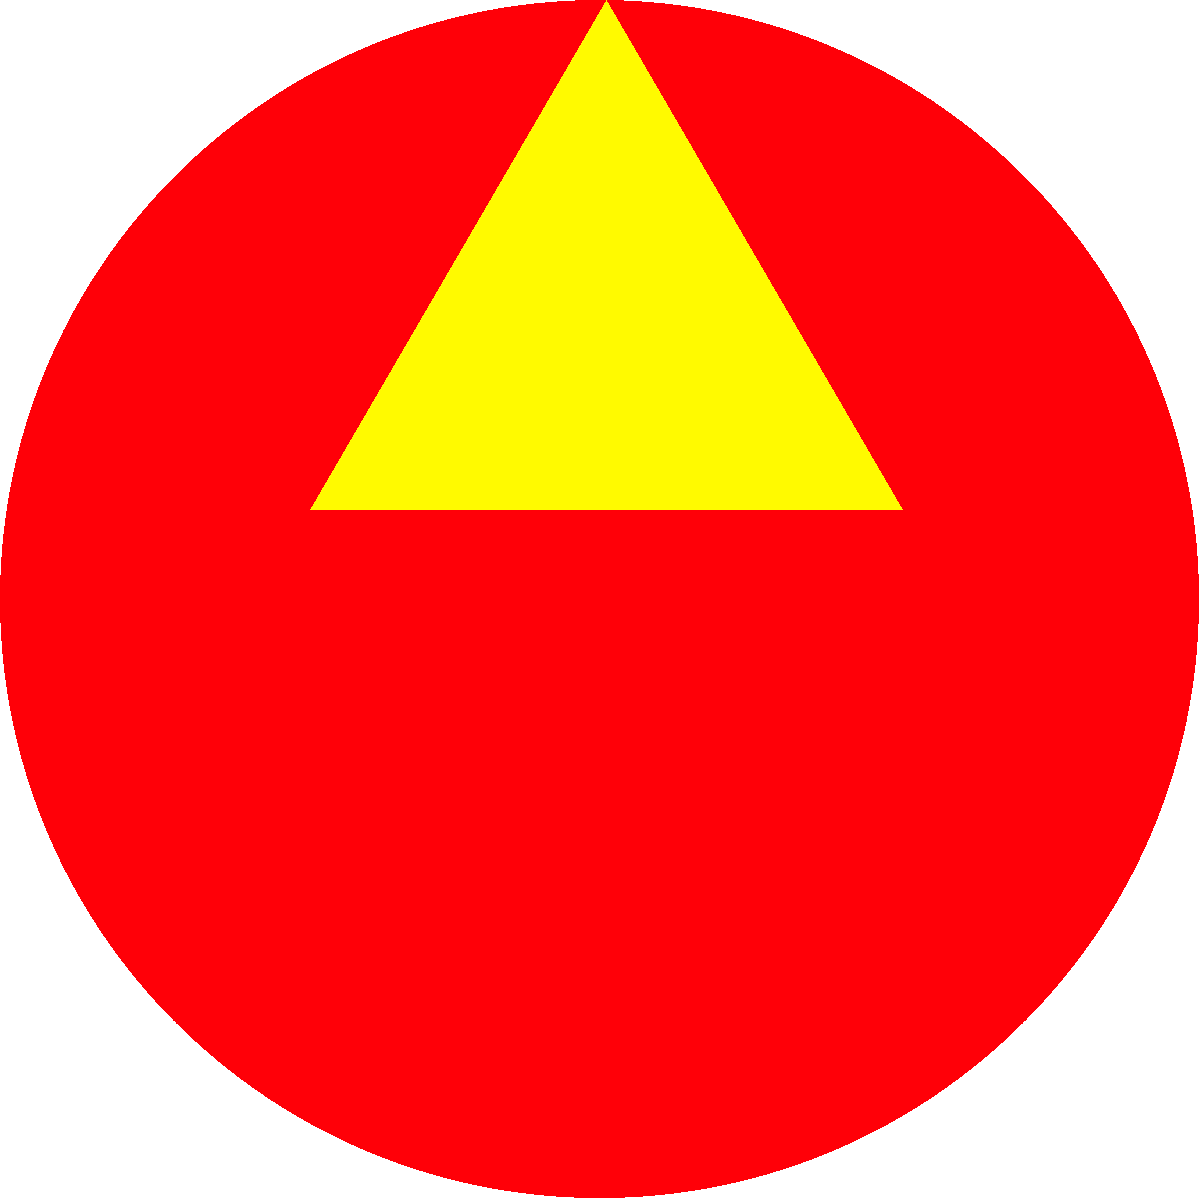
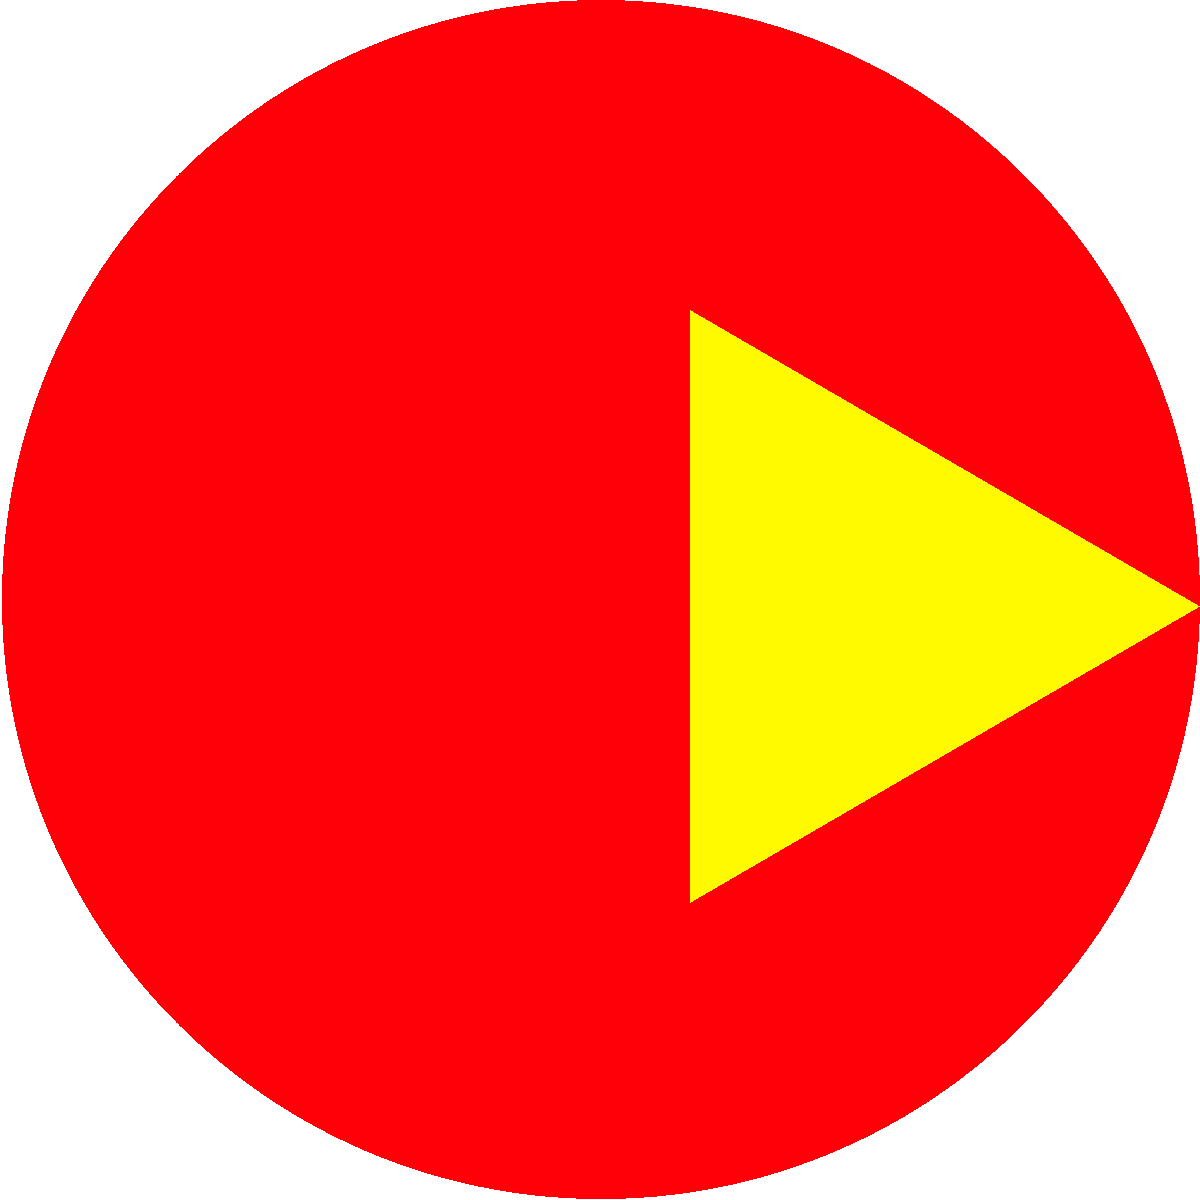
A heavy conversion was carried out to enable the boids travel direction be dictated only by it's current angle, and for it's interactions to therefore influence the angle, instead of travel directions. This includes replacing the circular sprite with that of a sprite with an forward-facing arrow

Changed region(s): [[0.2467, 0.0, 1.0, 0.7708], [0.6783, 0.3083, 0.7092, 0.3392]]

diff --git a/boids/boids.c b/boids/boids.c
@@ -9,7 +9,7 @@
 #define WINDOW_WIDTH (1200)
 #define WINDOW_HEIGHT (600)
 //pixels per second:
-#define SPEED (300)
+#define SPEED (100)
 #define SCROLL_SPEED (300)
 #define DEBUG (0)
 #define FORCE_CONSTANT (300)
@@ -66,7 +66,7 @@ int InitialiseRenderer(SDL_Renderer** WhereRend, SDL_Window* win) { // Initiates
 	return 0;
 }
 
-struct Boid { int ID; float x_pos; float y_pos; float x_vel; float y_vel; };
+struct Boid { int ID; float x_pos; float y_pos; double angle; };
 
 int main(int argc, char* argv[]) {
 
@@ -102,25 +102,20 @@ int main(int argc, char* argv[]) {
 		return 1;
 	}
 
-	
-
-	
 	//Create an array of textures representing each boid
 	SDL_Rect* pdest = (SDL_Rect*)malloc(BOIDS_COUNT * sizeof(SDL_Rect));
 	struct Boid* flock = (struct Boid*)malloc(BOIDS_COUNT * sizeof(struct Boid)); //Creating space for a flock of boids
 	//ptr = (int*)malloc(100 * sizeof(int)); //Prototype of the malloc function
-	float* x_pos = (float*)malloc(BOIDS_COUNT * sizeof(float));
-	float* y_pos = (float*)malloc(BOIDS_COUNT * sizeof(float));
-	float* x_vel = (float*)malloc(BOIDS_COUNT * sizeof(float));
-	float* y_vel = (float*)malloc(BOIDS_COUNT * sizeof(float));
 	printf("position and velocity structs established!\n");
 
-	for (int i = 0; i < BOIDS_COUNT; i++) {
+	/**** BOIDS CREATION ITERATION ****/
+	for (int i = 0; i < BOIDS_COUNT; i++) { 
+
 		if (DEBUG) { printf("boid #%d Established ... ", i);  // Debug line
 					 printf("at %d |", pdest[i].w); } // Debug line
 		SDL_QueryTexture(tex, NULL, NULL, &pdest[i].w, &pdest[i].h);
-		pdest[i].w = 15;
-		pdest[i].h = 15; //Absolute scale, in pixels
+		pdest[i].w = 12;
+		pdest[i].h = 12; //Absolute scale, in pixels
 		if (DEBUG) { printf("texture..."); } // Debug line
 
 
@@ -132,15 +127,14 @@ int main(int argc, char* argv[]) {
 		dest2.h = 5; //Absolute scale, in pixels
 	*/
 		//Sprite position on the screen
-		flock[i].x_pos = (WINDOW_WIDTH - pdest[i].w) / ((rand() % 10)+1);
+		flock[i].x_pos = (WINDOW_WIDTH - pdest[i].w) / ((rand() % 10)+1); //TODO make this able to select any pixel on screen
 		flock[i].y_pos = (WINDOW_HEIGHT - pdest[i].h) / ((rand() % 10)+1); //(rand()%10)
-		//Give sprite some initial velocity
-		flock[i].x_vel = 0.1*SPEED*(rand() % 10);
-		flock[i].y_vel = 0.1*SPEED*(rand() % 10);
-		if (DEBUG) { printf("Position and velocity: "); }// Debug line
-		if (DEBUG) { printf("%f %f\n", flock[i].x_pos, flock[i].x_vel); }// Debug line
+		if (DEBUG) { printf("X&Y done, angle: "); }// Debug line
+		//Give sprite some initial angle
+		flock[i].angle = (rand() % 3600)/10;   //Degrees
+		if (DEBUG) { printf("%f\n", flock[i].angle); }// Debug line
 	}
-	if (DEBUG) { printf("Boids created successfully!"); }// Debug line
+	if (DEBUG) { printf("All Boids created successfully!"); }// Debug line
 	//Keep track of the inputs that are given
 	int up = 0;
 	int down = 0;
@@ -148,9 +142,6 @@ int main(int argc, char* argv[]) {
 	int right = 0;
 
 	int close_requested = 0;
-	
-
-
 	//animation loop
 	while (!close_requested) {
 		if (DEBUG) { printf("\nMain loop:   "); }
@@ -238,28 +229,43 @@ int main(int argc, char* argv[]) {
 		for (int i = 0; i < BOIDS_COUNT; i++) {
 			if(DEBUG){printf("\nBoid #%d ", i); }
 
+			flock[i].angle = fmod(flock[i].angle, 360); //This fmod reassignment is used to stop angles winding up arbitrarily large
 			//Bounds-collision detection and reflection
 			if (flock[i].x_pos <= 0) {
-				flock[i].x_pos = 0;
-				flock[i].x_vel = -flock[i].x_vel;
+				flock[i].x_pos = 1;
+				if (flock[i].angle >= 180) {
+					flock[i].angle = flock[i].angle + 90;
+				}
+				else { flock[i].angle = 180 - flock[i].angle; }
 			}
-			if (flock[i].y_pos <= 0) {
-				flock[i].y_pos = 0;
-				flock[i].y_vel = -flock[i].y_vel;
+			if (flock[i].x_pos >= WINDOW_WIDTH) {
+				flock[i].x_pos = WINDOW_WIDTH-1;
+				if (flock[i].angle <= 180) { //Assuming  180<theta<360 or 0<theta<180
+					flock[i].angle = 180 - flock[i].angle;
+				}
+				else { flock[i].angle = 270 - flock[i].angle; }
 			}
-			if (flock[i].x_pos >= WINDOW_WIDTH - pdest[i].w) {
-				flock[i].x_pos = WINDOW_WIDTH - pdest[i].w;
-				flock[i].x_vel = -flock[i].x_vel;
+				
+			if (flock[i].y_pos <= 0){
+				flock[i].y_pos = 1;
+				if (flock[i].angle <= 270) {
+					flock[i].angle = flock[i].angle - 90;
+				}
+				else{flock[i].angle = 360 - flock[i].angle;}
 			}
-			if (flock[i].y_pos >= WINDOW_HEIGHT - pdest[i].h) {
-				flock[i].y_pos = WINDOW_HEIGHT - pdest[i].h;
-				flock[i].y_vel = -flock[i].y_vel;
+			if (flock[i].y_pos >= WINDOW_HEIGHT) {
+				flock[i].y_pos = WINDOW_HEIGHT-1;
+				if (flock[i].angle <= 90) {
+					flock[i].angle = 360 - flock[i].angle;
+				}
+				else { flock[i].angle = 360 - flock[i].angle; }
+				//270-(90-theta)
 			}
 			if (DEBUG) { printf("Bounds-checking complete ..."); }//Debug line
 
 			/*------------update the sprite velocity------------*/
 
-			//Cohesion algorithm
+			//****Cohesion algorithm (Not yet implemented)
 			int x_centre = 0;
 			int y_centre = 0;
 			for (int j = 0; j < BOIDS_COUNT; j++) {
@@ -271,16 +277,16 @@ int main(int argc, char* argv[]) {
 			x_centre = x_centre / (BOIDS_COUNT-1);
 			y_centre = y_centre / (BOIDS_COUNT-1); //Average baryocenter
 			if (DEBUG) { printf("flock-centre found..."); } //Debug line
-			int centripetal_v = 10;
-			if (x_centre > flock[i].x_pos) { flock[i].x_vel = flock[i].x_vel + centripetal_v; }
-			else{ flock[i].x_vel = flock[i].x_vel - centripetal_v; }
-			if (y_centre > flock[i].y_pos) { flock[i].y_vel = flock[i].y_vel + centripetal_v; }
-			else { flock[i].y_vel = flock[i].y_vel - centripetal_v; }
-			
+			int centripetal_force = 10; //TODO this should be made into a global variable (OR boid attribute), probably.
 
+			int centripetal_rot_direction = 1;
+			if (tan(flock[i].angle) >= y_centre / x_centre) { centripetal_rot_direction = -1; }
 
-			//Seperation Algorithm
-			float distance_x, distance_y, distance, force_x, force_y;
+			// TODO Centripetal force is not applied yet.
+
+			//****Seperation Algorithm
+			float distance_x, distance_y, distance;
+			float  seperation_rotation = 0;
 			for (int j = 0; j < BOIDS_COUNT; j++) {
 				if (j != i) {
 					// Distance = other_boid - this_boid
@@ -288,40 +294,32 @@ int main(int argc, char* argv[]) {
 					distance_y = flock[j].y_pos - flock[i].y_pos;
 					distance = sqrt((distance_x*distance_x) + (distance_y*distance_y));
 					
+					int seperation_rot_direction = 1;
+					if (tan(flock[i].angle) >= distance_y / distance_x) { seperation_rot_direction = -1; }
+					
 					// Force = K*1/Distance
-					force_x = -FORCE_CONSTANT * (distance_x/distance) * 1 / distance;  // Dx/D=(0->1) range
-					force_y = -FORCE_CONSTANT *(distance_y/distance)* 1 / distance;
+					seperation_rotation = (FORCE_CONSTANT * 1 / distance)*seperation_rot_direction;
 				}
 			}
 			if (DEBUG) { printf("flock-forces applied ..."); }//Debug line
 
-			flock[i].y_vel = flock[i].y_vel + force_y;
-			flock[i].x_vel = flock[i].x_vel + force_x;
+			flock[i].angle += seperation_rotation;
 
 			int v_cohesion;
 			int v_seperation;
 			int v_alignment;
 
-			// Normalize the velocity,
-			float veloc = sqrt((flock[i].y_vel*flock[i].y_vel) + (flock[i].x_vel*flock[i].x_vel));
-			if(veloc > SPEED){
-				float rel_surplus = ((veloc - SPEED) / SPEED)-1;
-				flock[i].y_vel = (1 - rel_surplus)*flock[i].y_vel;
-				flock[i].x_vel = (1 - rel_surplus)*flock[i].x_vel;
-
-			}
-
 			//Update the sprite position
-			flock[i].y_pos += flock[i].y_vel / 60; //Speed-per-second, divided by frame-time
-			flock[i].x_pos += flock[i].x_vel / 60;
+			flock[i].y_pos += SPEED*(sin(M_PI*flock[i].angle/180)) / 60; //Speed-per-second, divided by frame-time
+			flock[i].x_pos += SPEED * (cos(M_PI*flock[i].angle/180)) / 60;
 			//set the positions in the struct
 			pdest[i].y = (int)flock[i].y_pos; //Take note this is cast from float to int
 			pdest[i].x = (int)flock[i].x_pos;
 			if (DEBUG) { printf("Sprite positions updated ..."); } //Debug line
 
 			//draw the image to the window
-			int rotation = 360 / (i+1);
-			SDL_RenderCopyEx(rend, tex, NULL, &pdest[i], rotation, NULL, SDL_FLIP_NONE);
+			//int facing_angle = 360 / (i+1);
+			SDL_RenderCopyEx(rend, tex, NULL, &pdest[i], flock[i].angle, NULL, SDL_FLIP_NONE);
 			if (DEBUG) { printf("RenderCopy succeeded"); } //Debug line
 		}
 
